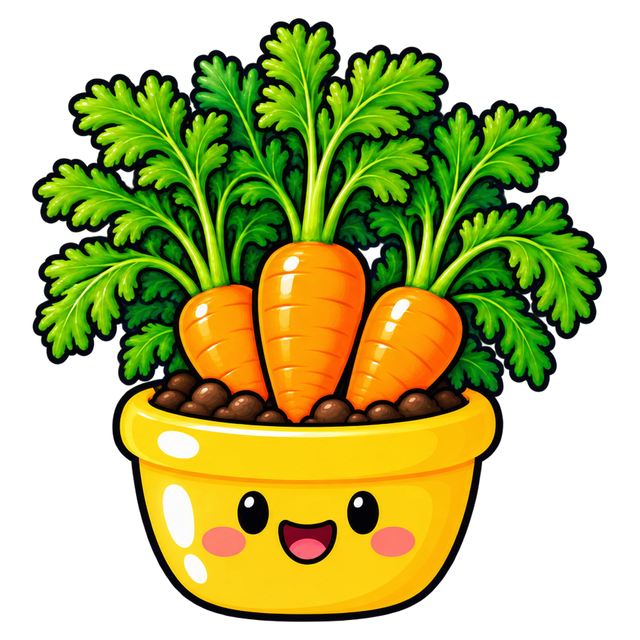
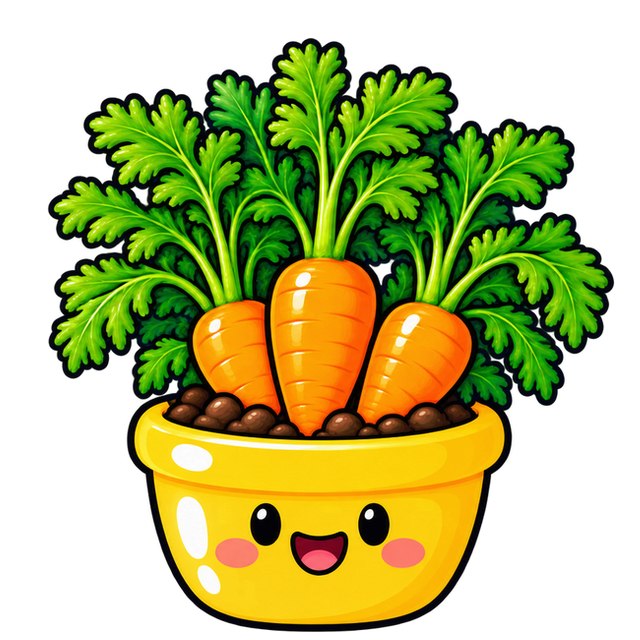
Thirsty and sleepy art for lettuce, kale, garlic, carrot, garden egg and eggplant
Claude-Session: https://claude.ai/code/session_015RxAJdHfQtruXpuwTDDmmx

diff --git a/src/data/buddyImages.ts b/src/data/buddyImages.ts
@@ -91,32 +91,32 @@ export const BUDDY_IMAGES: Record<ArtId | 'cutting', Record<Mood, ImageSourcePro
   },
   'lettuce': {
     happy: require('../../assets/buddies/lettuce-happy.png'),
-    thirsty: require('../../assets/buddies/lettuce-happy.png'),
+    thirsty: require('../../assets/buddies/lettuce-thirsty.png'),
     snoozing: require('../../assets/buddies/lettuce-snoozing.png'),
   },
   'kale': {
     happy: require('../../assets/buddies/kale-happy.png'),
-    thirsty: require('../../assets/buddies/kale-happy.png'),
+    thirsty: require('../../assets/buddies/kale-thirsty.png'),
     snoozing: require('../../assets/buddies/kale-snoozing.png'),
   },
   'garlic': {
     happy: require('../../assets/buddies/garlic-happy.png'),
-    thirsty: require('../../assets/buddies/garlic-happy.png'),
-    snoozing: require('../../assets/buddies/garlic-happy.png'),
+    thirsty: require('../../assets/buddies/garlic-thirsty.png'),
+    snoozing: require('../../assets/buddies/garlic-snoozing.png'),
   },
   'carrot': {
     happy: require('../../assets/buddies/carrot-happy.png'),
-    thirsty: require('../../assets/buddies/carrot-happy.png'),
-    snoozing: require('../../assets/buddies/carrot-happy.png'),
+    thirsty: require('../../assets/buddies/carrot-thirsty.png'),
+    snoozing: require('../../assets/buddies/carrot-snoozing.png'),
   },
   'garden-egg': {
     happy: require('../../assets/buddies/garden-egg-happy.png'),
-    thirsty: require('../../assets/buddies/garden-egg-happy.png'),
+    thirsty: require('../../assets/buddies/garden-egg-thirsty.png'),
     snoozing: require('../../assets/buddies/garden-egg-happy.png'),
   },
   'eggplant': {
     happy: require('../../assets/buddies/eggplant-happy.png'),
-    thirsty: require('../../assets/buddies/eggplant-happy.png'),
+    thirsty: require('../../assets/buddies/eggplant-thirsty.png'),
     snoozing: require('../../assets/buddies/eggplant-happy.png'),
   },
   'ginger': {

diff --git a/src/data/art.test.ts b/src/data/art.test.ts
@@ -12,9 +12,9 @@ describe('illustration assets', () => {
     for (const r of refs) expect(existsSync(join(root, r)), r).toBe(true);
   });
 
-  it('has the 126 plant buddies in the names the app loads: {plant}-{mood}.png', () => {
+  it('has the 134 plant buddies in the names the app loads: {plant}-{mood}.png', () => {
     const files = readdirSync(join(root, 'assets', 'buddies'));
-    expect(files.length).toBe(126);
+    expect(files.length).toBe(134);
     for (const f of files) expect(f).toMatch(/^[a-z0-9-]+-(happy|thirsty|snoozing)\.png$/);
   });
 });
